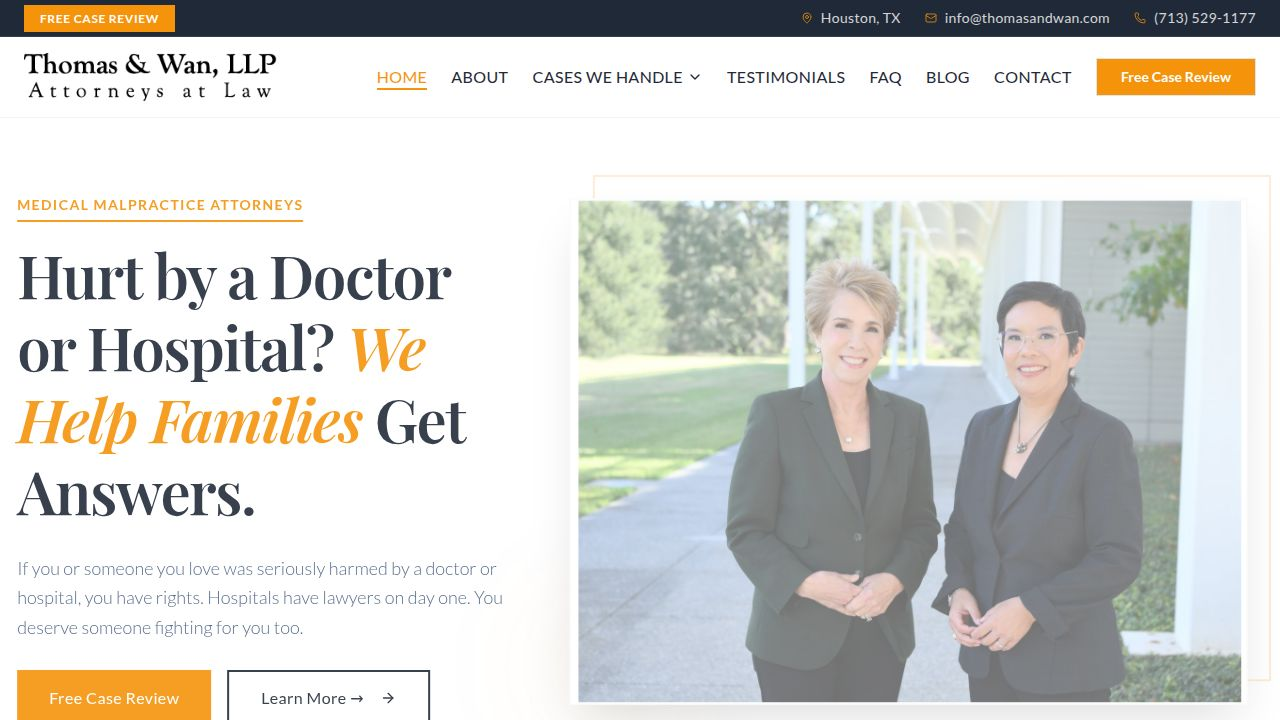
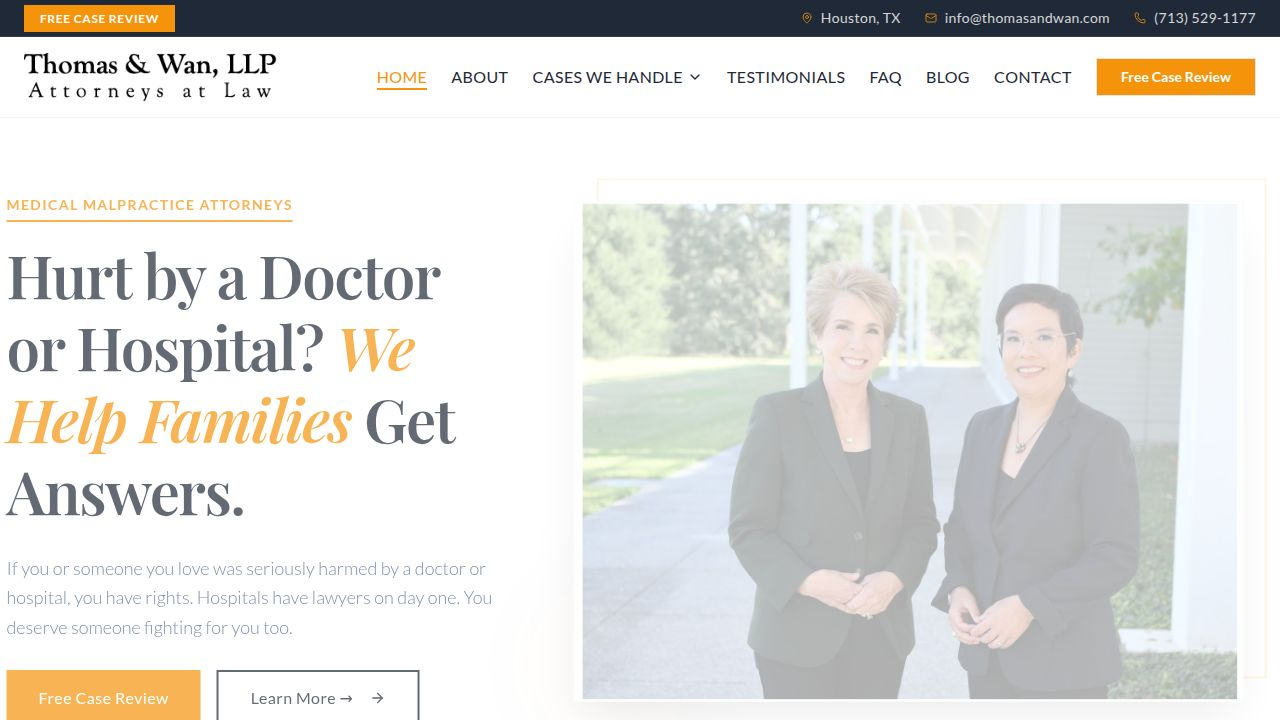
Fix blog image, reposition awards, and refine testimonials section
Replaced a broken blog post image URL, relocated the TrustBar component lower on the homepage, and adjusted styling and carousel navigation in the Testimonials component to improve mobile display and fix an extra arrow issue.

Replit-Commit-Author: Agent
Replit-Commit-Session-Id: 187b6a1d-4a5e-4166-9bb5-00076b9494e2
Replit-Commit-Checkpoint-Type: intermediate_checkpoint
Replit-Commit-Event-Id: 66368278-28b5-44a2-a568-b0e397da22eb
Replit-Commit-Screenshot-Url: https://storage.googleapis.com/screenshot-production-us-central1/c2cc1403-2177-4233-8c7d-12b18c71f9fa/187b6a1d-4a5e-4166-9bb5-00076b9494e2/jCdz4Et
Replit-Helium-Checkpoint-Created: true

diff --git a/client/src/components/Testimonials.tsx b/client/src/components/Testimonials.tsx
@@ -92,22 +92,22 @@ export default function TestimonialsAndResults({
             </h2>
           </div>
 
-          <div className="max-w-4xl mx-auto pb-10">
+          <div className="max-w-4xl mx-auto px-4 pb-10">
             <Carousel opts={{ align: "start", loop: true }}>
-              <CarouselContent>
+              <CarouselContent className="-ml-4">
                 {testimonials.map((t, idx) => (
-                  <CarouselItem key={idx} className="md:basis-1/2 lg:basis-1/1 pl-8 pt-8 pb-4">
+                  <CarouselItem key={idx} className="basis-full pl-4 pt-6 pb-4">
                      <Card className="border-none shadow-lg bg-white h-full relative overflow-visible">
                         <div className="absolute -top-4 -left-4 bg-secondary text-white p-3 rounded-full shadow-lg">
                            <Quote className="w-6 h-6 fill-current" />
                         </div>
-                        <CardContent className="pt-10 pb-8 px-8 flex flex-col h-full items-center text-center">
-                           <div className="flex gap-1 mb-6">
+                        <CardContent className="pt-10 pb-8 px-6 md:px-8 flex flex-col h-full items-center text-center">
+                           <div className="flex gap-1 mb-4 md:mb-6">
                              {[...Array(t.rating)].map((_, i) => (
                                <Star key={i} className="w-5 h-5 text-secondary fill-current" />
                              ))}
                            </div>
-                           <p className="text-lg text-slate-600 italic font-serif leading-relaxed mb-6 flex-grow">
+                           <p className="text-base md:text-lg text-slate-600 italic font-serif leading-relaxed mb-4 md:mb-6 flex-grow">
                              "{t.text}"
                            </p>
                            <div>
@@ -119,6 +119,10 @@ export default function TestimonialsAndResults({
                   </CarouselItem>
                 ))}
               </CarouselContent>
+              <div className="flex justify-center gap-4 mt-6 md:hidden">
+                <CarouselPrevious className="static translate-y-0 border-primary text-primary hover:bg-primary hover:text-white" />
+                <CarouselNext className="static translate-y-0 border-primary text-primary hover:bg-primary hover:text-white" />
+              </div>
               <div className="hidden md:block">
                 <CarouselPrevious className="-left-12 border-primary text-primary hover:bg-primary hover:text-white" />
                 <CarouselNext className="-right-12 border-primary text-primary hover:bg-primary hover:text-white" />

diff --git a/client/src/pages/Home.tsx b/client/src/pages/Home.tsx
@@ -38,12 +38,6 @@ export default function Home() {
           badge1={cms(d, "heroBadge1", "Available 24/7")}
           badge2={cms(d, "heroBadge2", "No Win, No Fee")}
         />
-        <TrustBar
-          rating={cms(d, "trustRating", "5.0")}
-          ratingLabel={cms(d, "trustRatingLabel", "Google Reviews")}
-          avTitle={cms(d, "trustAvTitle", "AV Preeminent®")}
-          avSubtitle={cms(d, "trustAvSubtitle", "Peer Rated for Highest Level of Excellence")}
-        />
         
         <PracticeAreas
           label={cms(d, "practiceLabel", "Our Expertise")}
@@ -60,6 +54,13 @@ export default function Home() {
           text1={cms(d, "aboutText1", "At Thomas & Wan, you will work directly with Linda Thomas and Michelle Wan. We do not pass your case to junior associates. We do not refer cases out to other attorneys. We prepare every case as if it will go to trial.")}
           text2={cms(d, "aboutText2", "With over 60 years of combined experience, we have held major Texas hospitals accountable over and over again.")}
           quote={cms(d, "aboutQuote", "We don't refer cases out. When you hire Thomas & Wan, you get Thomas & Wan.")}
+        />
+
+        <TrustBar
+          rating={cms(d, "trustRating", "5.0")}
+          ratingLabel={cms(d, "trustRatingLabel", "Google Reviews")}
+          avTitle={cms(d, "trustAvTitle", "AV Preeminent®")}
+          avSubtitle={cms(d, "trustAvSubtitle", "Peer Rated for Highest Level of Excellence")}
         />
         
         <TeamSection

diff --git a/client/src/components/BlogSection.tsx b/client/src/components/BlogSection.tsx
@@ -8,7 +8,7 @@ const blogPosts = [
     excerpt: "Birth injuries can be devastating for families. Learn about your rights and the legal process for seeking justice in Texas.",
     date: "January 15, 2026",
     category: "Birth Injury",
-    image: "https://images.unsplash.com/photo-1519823551278-64ac927accc9?auto=format&fit=crop&q=80&w=600"
+    image: "https://images.unsplash.com/photo-1584515933487-779824d29309?auto=format&fit=crop&q=80&w=600"
   },
   {
     id: 2,
